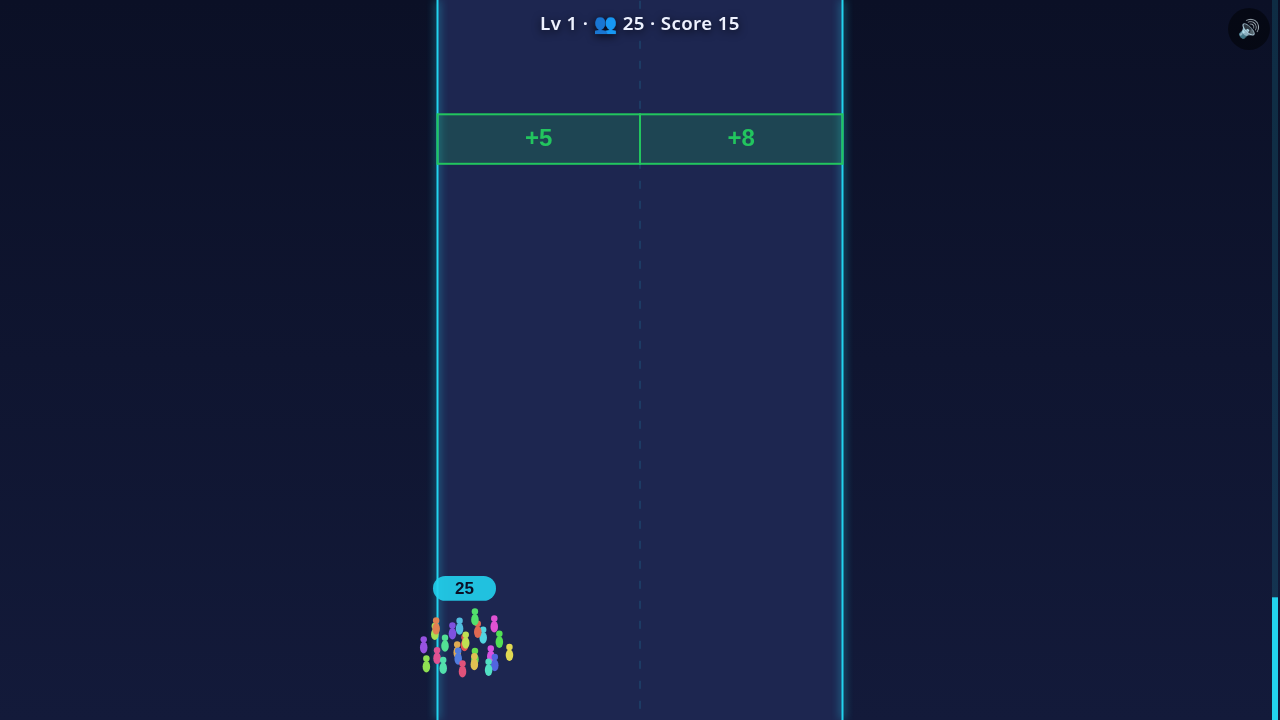
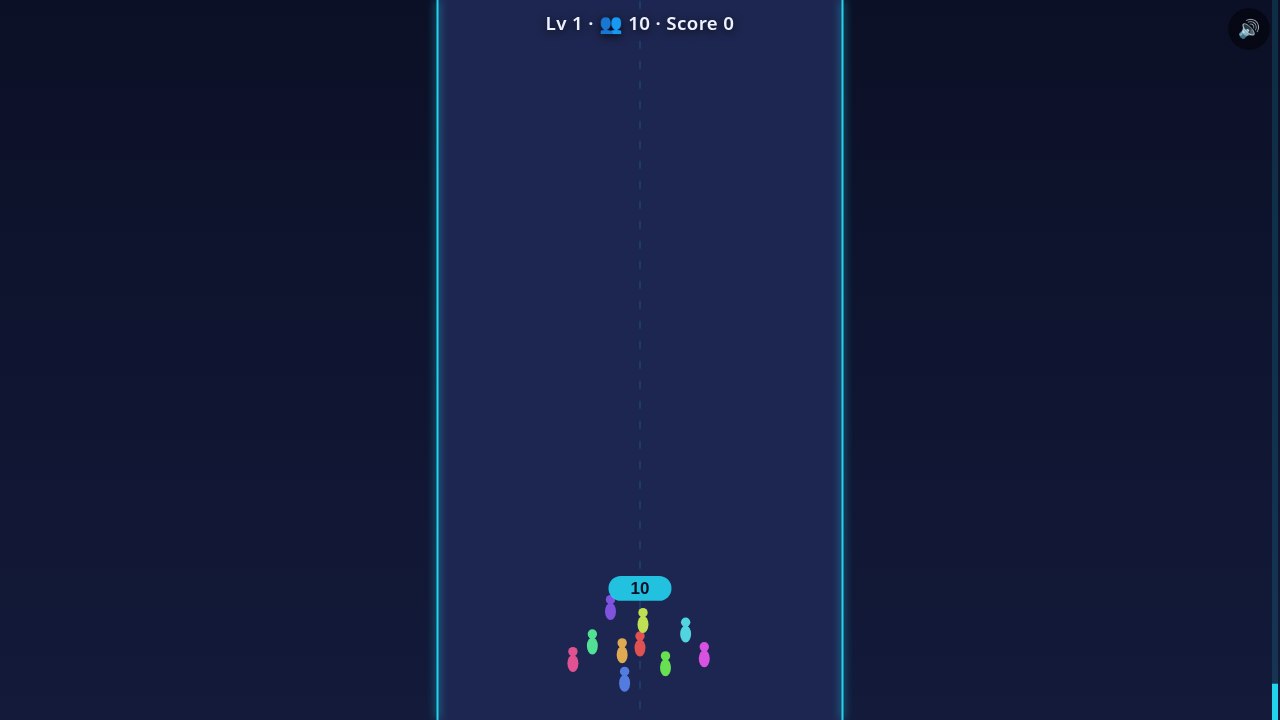
Visual density: bigger runner glyphs (1.45x) and wider crowd spread (1.7 units, up to 60 figures)

diff --git a/client.js b/client.js
@@ -595,17 +595,18 @@ function drawPlayerCrowd(state, sx, sy, scale) {
   const crowd = state.crowd;
   const px = state.players[state.selfId].x;
   const pz = CROWD_Z;
-  const count = Math.min(44, crowd);
+  const count = Math.min(60, crowd);
   const tick = state.tick;
 
   for (let i = 0; i < count; i++) {
     const angle = (i * 2.399963) % (Math.PI * 2);
-    const r = Math.sqrt(i / count) * 1.1;
+    const r = Math.sqrt(i / count) * 1.7;
     const ox = Math.cos(angle) * r;
     const oz = Math.sin(angle) * r * 0.6;
     const bob = Math.sin(tick * 0.35 + i) * 0.08;
     const hue = (i * 37) % 360;
-    drawFigure(sx(px + ox), sy(pz + oz + bob), scale, `hsl(${hue},70%,60%)`, i);
+    const fx = Math.max(0.35, Math.min(W - 0.35, px + ox));
+    drawFigure(sx(fx), sy(pz + oz + bob), scale, `hsl(${hue},70%,60%)`, i, 1.45);
   }
 
   // Count badge
@@ -622,8 +623,8 @@ function drawPlayerCrowd(state, sx, sy, scale) {
   ctx2d.fillText(String(crowd), sx(px), by + bh * 0.72);
 }
 
-function drawFigure(x, y, scale, color, idx) {
-  const r = scale * 0.12;
+function drawFigure(x, y, scale, color, idx, sizeMult) {
+  const r = scale * 0.12 * (sizeMult || 1);
   ctx2d.fillStyle = color;
   ctx2d.beginPath();
   ctx2d.arc(x, y - r * 1.5, r * 0.6, 0, Math.PI * 2);
@@ -792,7 +793,7 @@ window.__omGame = {
     return {
       fps,
       tick: state ? state.tick : 0,
-      entities: state ? (state.activeRows ? state.activeRows.length : 0) + Math.min(44, state.crowd) : 0
+      entities: state ? (state.activeRows ? state.activeRows.length : 0) + Math.min(60, state.crowd) : 0
     };
   },
   sendAction(action) {

diff --git a/design/verification.md b/design/verification.md
@@ -29,3 +29,13 @@ All gates run against the shipped files on 2026-11-26 (OpenGame MCP, headless Ch
 - Visual density is v1-minimal: runners are small and the track is sparse between gates. Planned polish: larger runner glyphs, wider crowd spread, taller glowing gate panels, side-stand decorations, clash close-up framing.
 - Human play-feel (steering weight, gate readability at full speed) is judged from playtest frames; simulation proves rules and balance only.
 - Audio is synthesized WebAudio; headless playtest cannot prove how it sounds.
+
+---
+
+## 2026-11-27 ~00:15 IST — visual density improvement (run 2)
+- Change: runner glyphs 1.45× bigger (drawFigure size multiplier), crowd spread radius 1.1 → 1.7 world units with figures clamped to the track (x 0.35–8.65), drawn figures cap 44 → 60, getStats entity count updated to match. logic.js untouched.
+- Local harness: ALL PASS (pilot wins all 10 levels, idle loss tick 583, always-left loss tick 472, deterministic, referenceRoute win).
+- Server gates: validate PASS (no diagnostics) · simulate reference WIN tick 570 [player-1] · idle LOSS tick 583 · always-left LOSS tick 472 · playtest 0 console errors, 0 failed requests, all 4 self-tests PASS, phase reached win.
+- Cover recaptured: new frame shows the bigger, wider-spread crowd (10 runners, count badge visible) — headless cover capture runs slower than real time, so the frame is early-run; the playtest late-run frame confirms the denser crowd mid-game.
+- Notes: first reference-simulate call failed transiently ("Tool failed") right after the Studio restart; retry passed. First cover attempt failed on the Space key ("Invalid scripted key") — mouse click on #start works instead.
+- Visual density (glyphs + spread) now done; remaining polish: taller glowing gate panels / side-stand decorations, clash framing, difficulty tuning, sound layering, levels 11–12.
